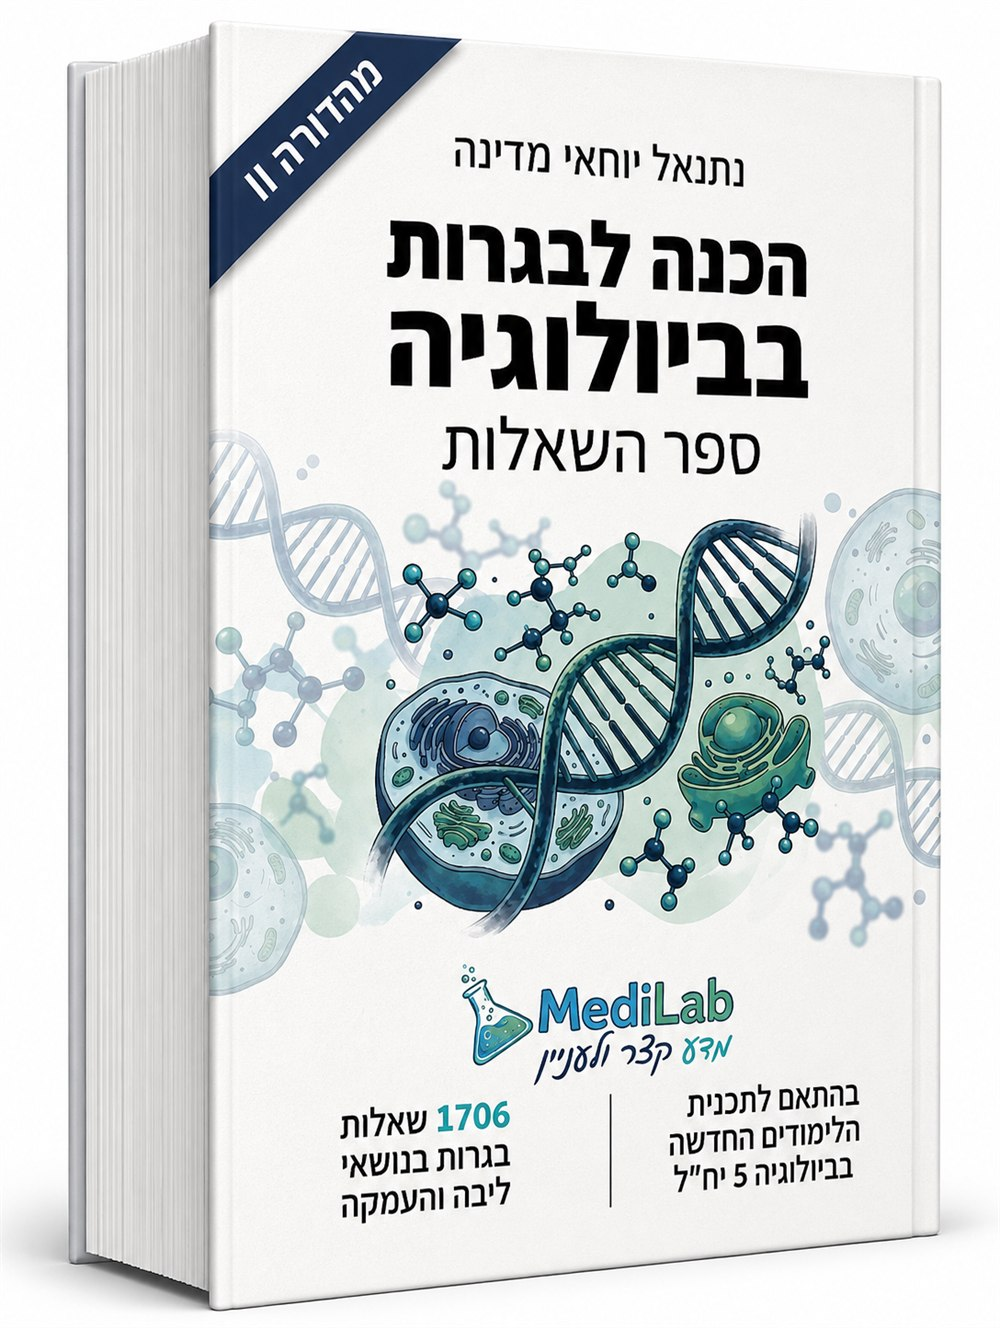
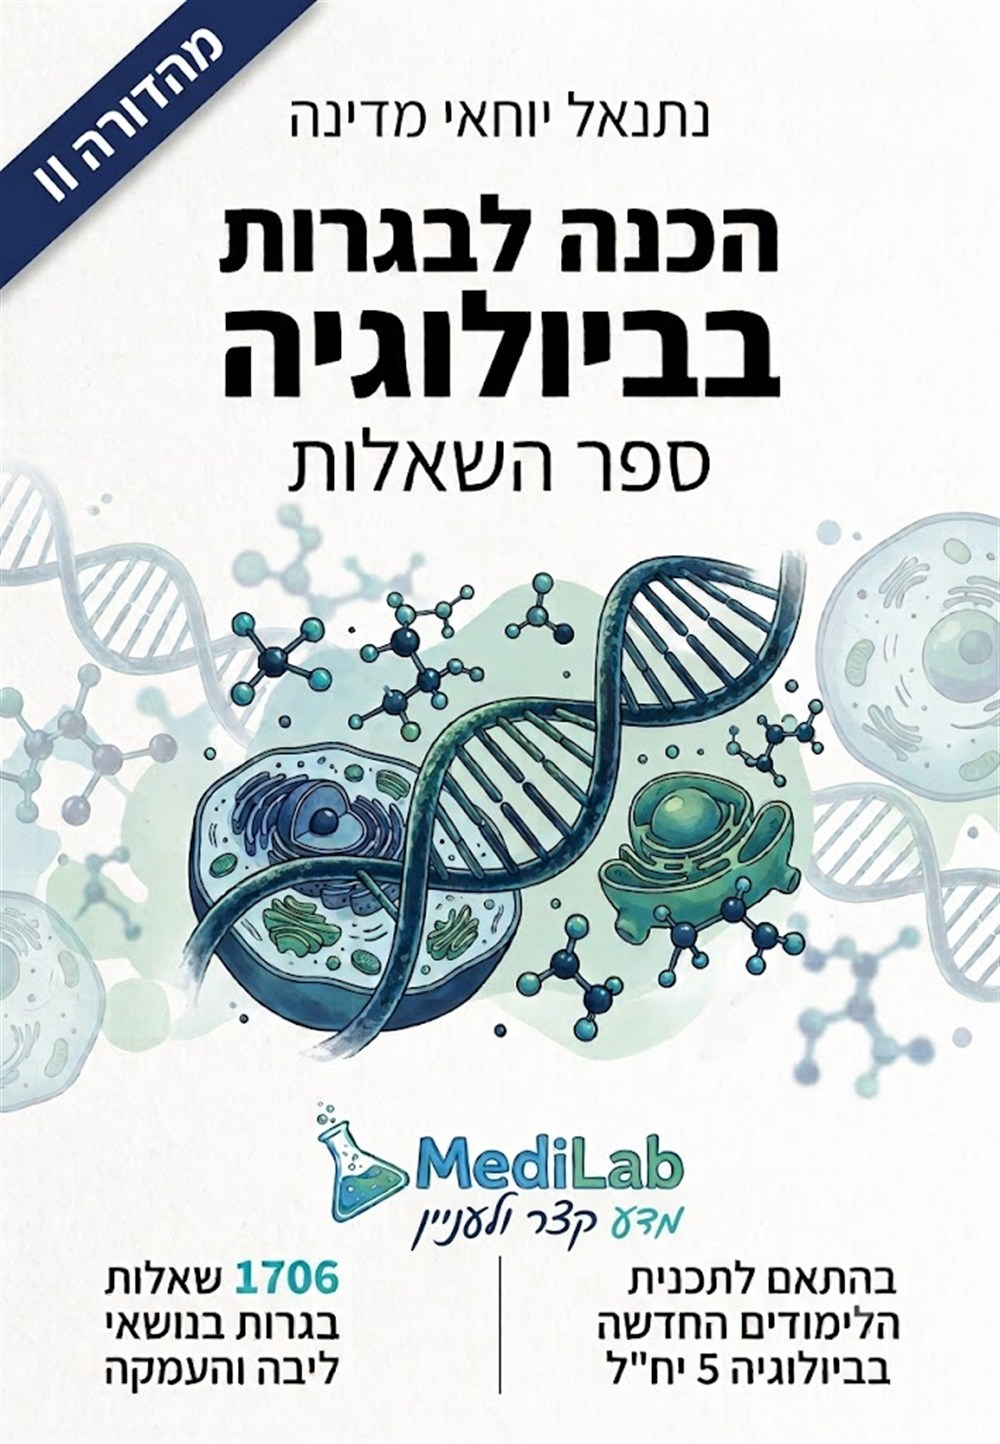
content: update question-book cover to edition 11 (1706 questions)
Replaces book-questions.jpg (700x1011) and book-questions-lg.jpg (1000x1444)
with the new "ספר השאלות" cover (מהדורה 11, 1706 שאלות); updates the <img>
height to match the new aspect. object-fit:contain keeps it undistorted.

diff --git a/index.html b/index.html
@@ -999,7 +999,7 @@
       <article class="bcard reveal">
         <div class="bcover">
           <span class="book-hot" aria-hidden="true">★ רב-מכר</span>
-          <img src="book-questions.jpg" alt="כריכת ספר השאלות — הכנה לבגרות בביולוגיה 5 יחידות" width="700" height="930" loading="lazy" />
+          <img src="book-questions.jpg" alt="כריכת ספר השאלות — הכנה לבגרות בביולוגיה 5 יחידות" width="700" height="1011" loading="lazy" />
           <button class="bzoom" data-full="book-questions-lg.jpg" data-alt="כריכת ספר השאלות — הכנה לבגרות בביולוגיה 5 יח״ל" aria-label="הגדלת כריכת ספר השאלות"><svg width="18" height="18" viewBox="0 0 24 24" fill="none" stroke="currentColor" stroke-width="2" stroke-linecap="round" stroke-linejoin="round" aria-hidden="true"><circle cx="11" cy="11" r="7"/><path d="m21 21-4.3-4.3"/></svg></button>
         </div>
         <div>
